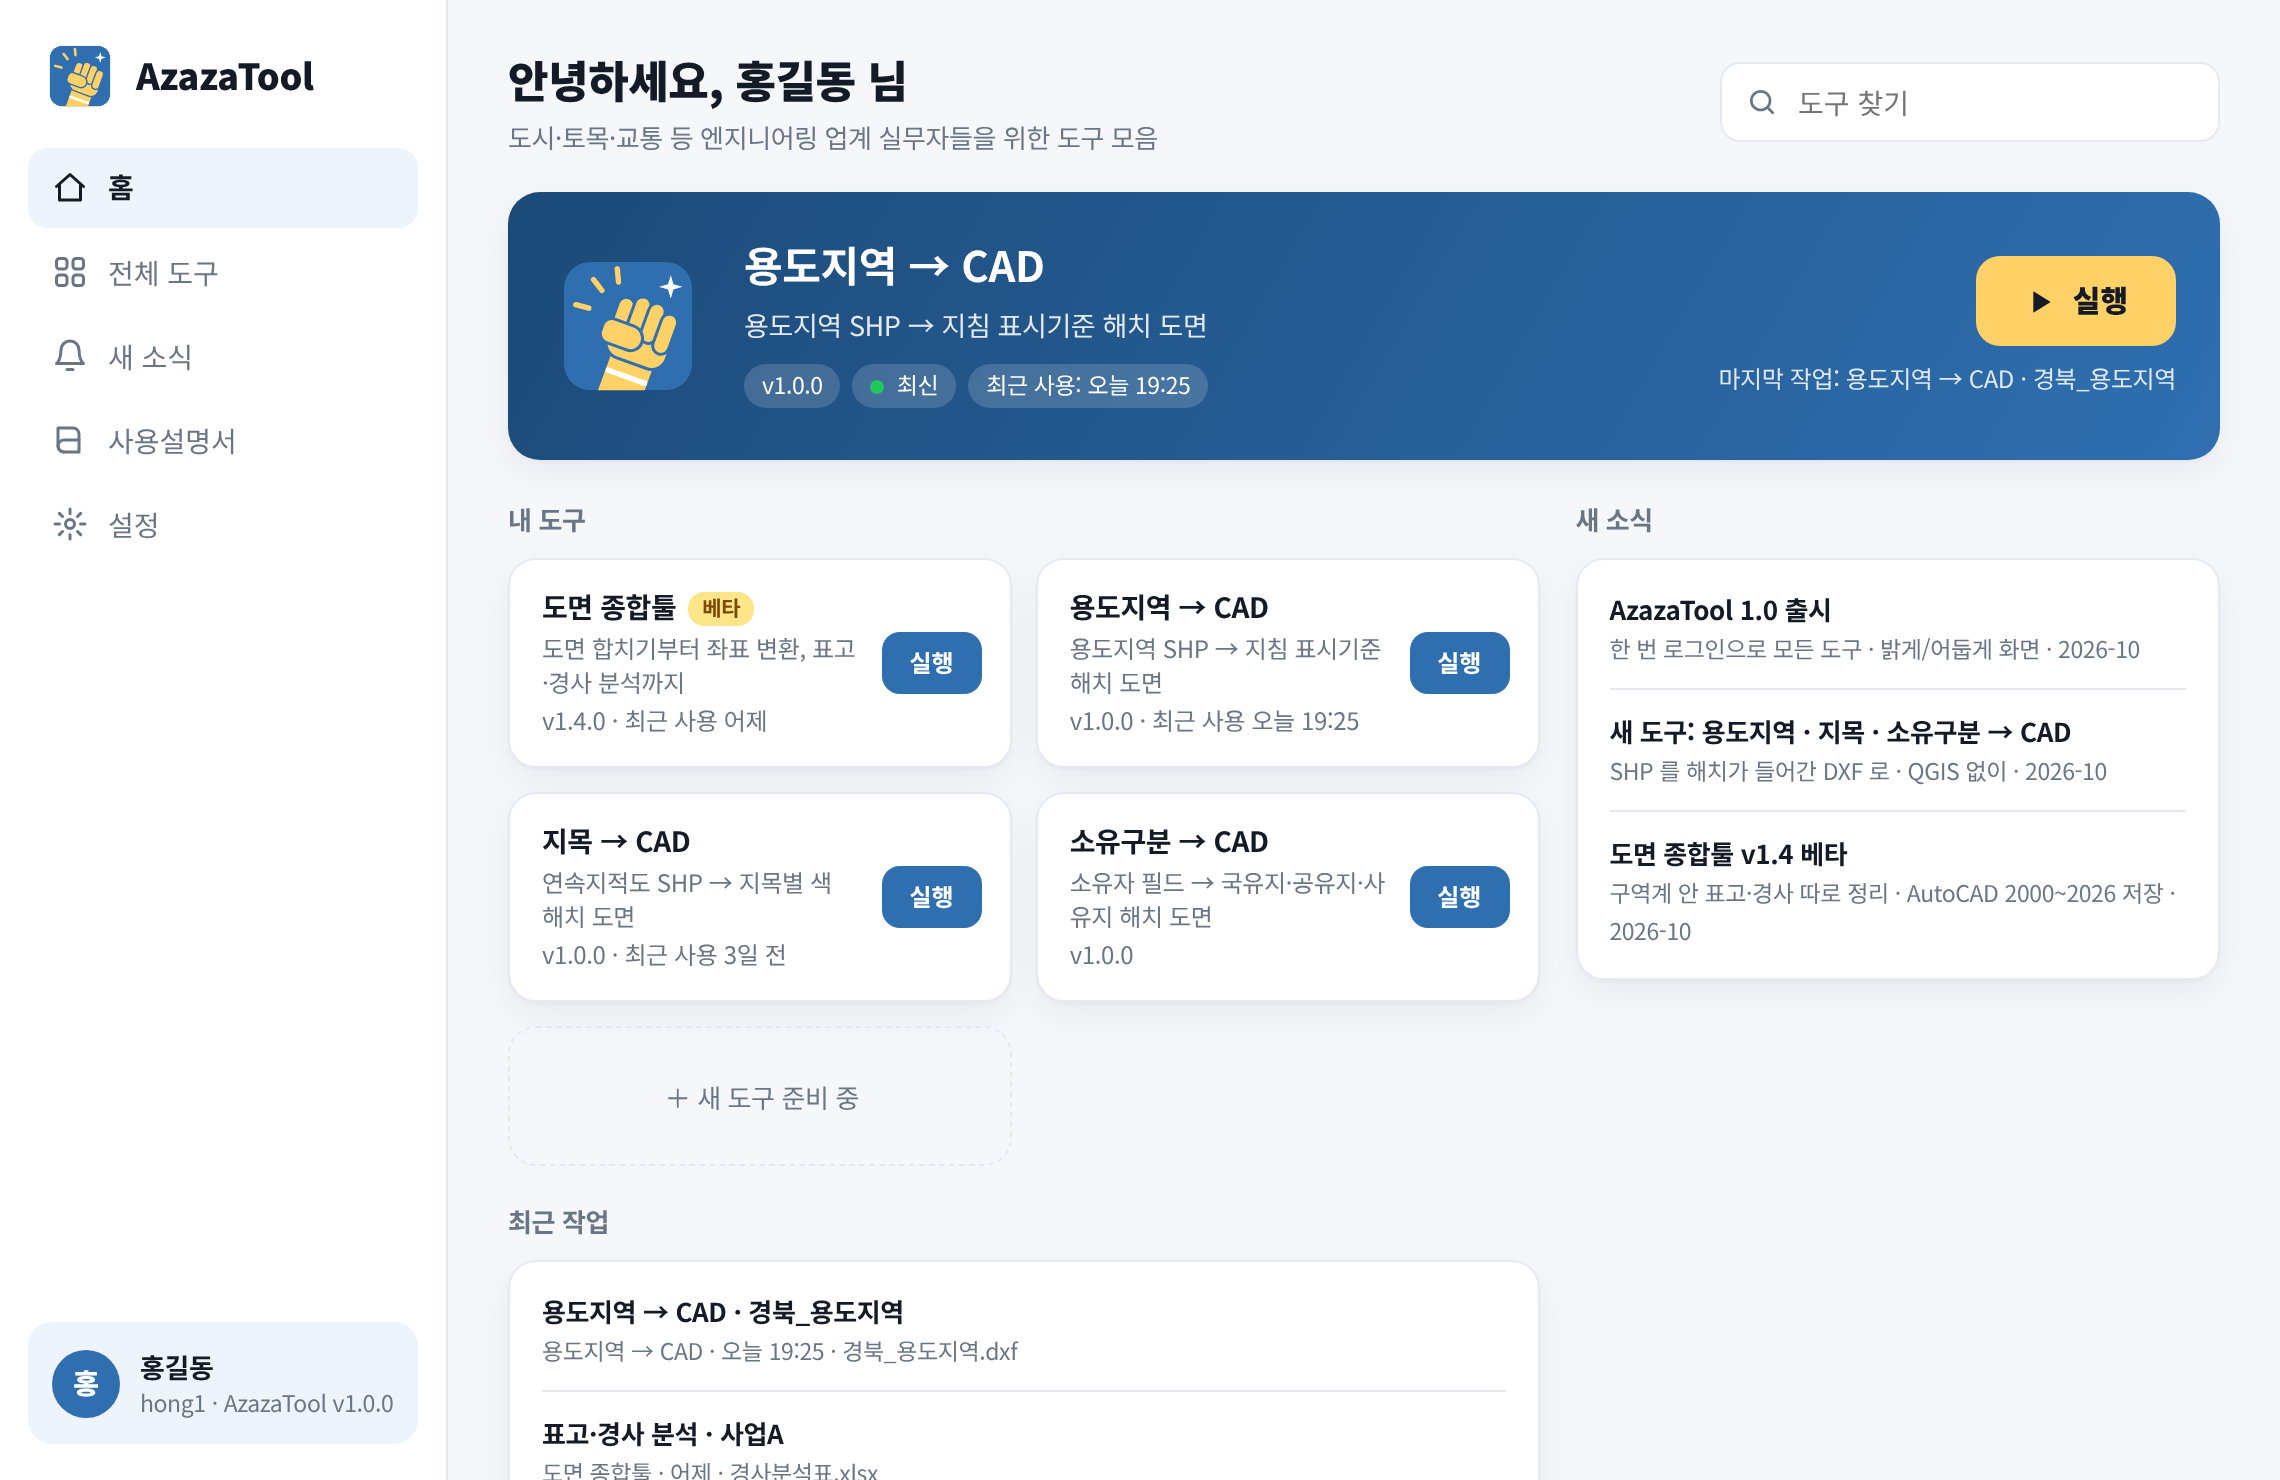
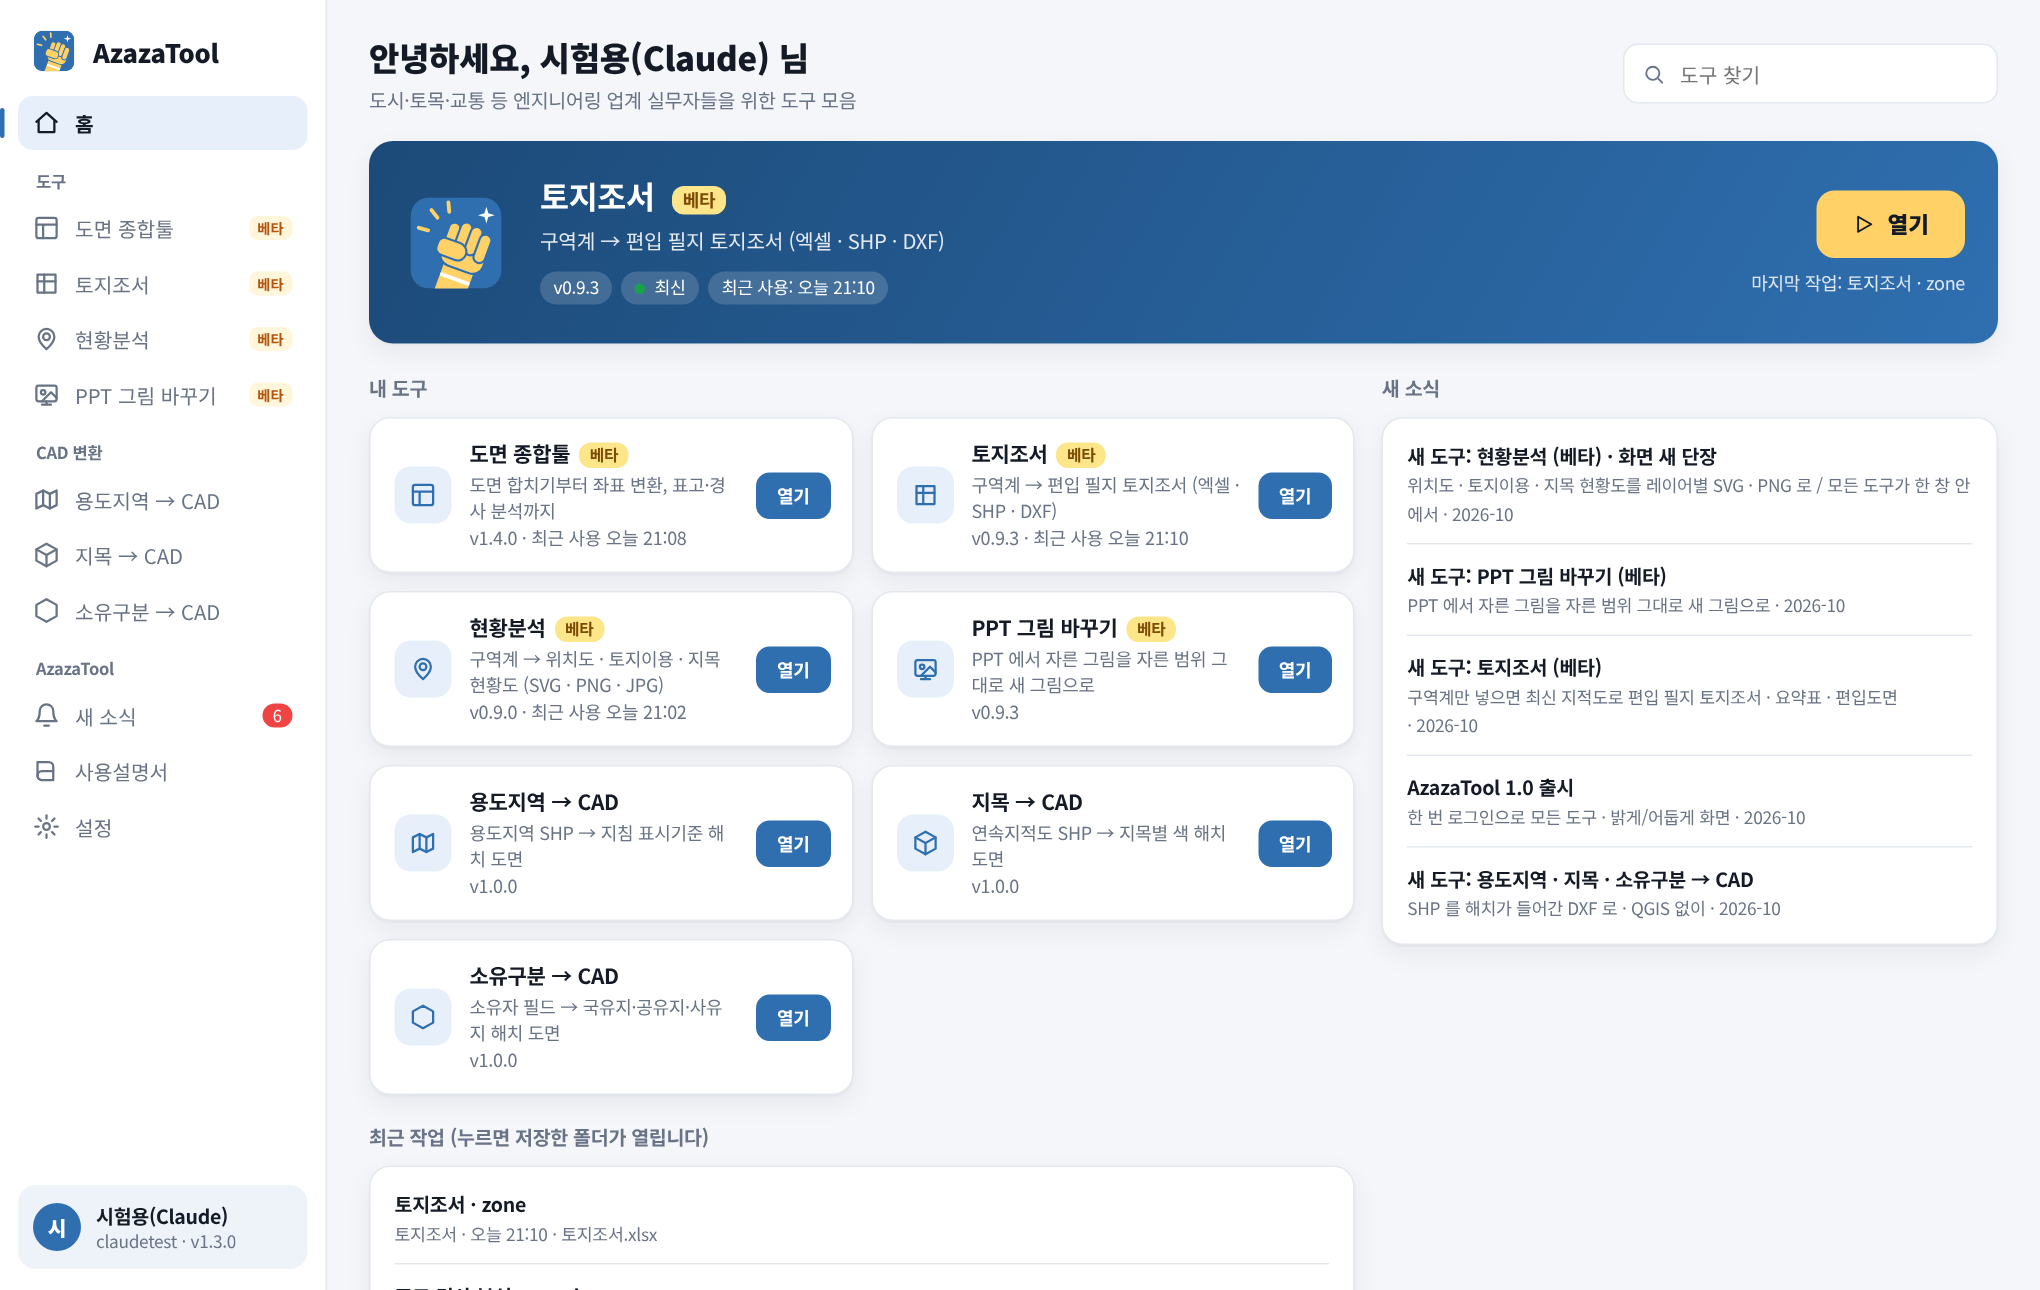
Add files via upload

diff --git a/docs/index.html b/docs/index.html
@@ -98,7 +98,7 @@
 
 <section id="tools"><div class="wrap">
   <h2>들어 있는 도구</h2>
-  <p class="sub">도구마다 따로 창이 열리고, 여러 도구를 같이 열어 쓸 수 있습니다.</p>
+  <p class="sub">모든 도구가 같은 화면 틀로 열립니다. 한 화면에 기능이 다 보이고, 파일은 끌어 놓으면 됩니다. 작업 중에 다른 도구로 가도 계속 돌아갑니다.</p>
   <div class="grid">
     <div class="card"><h3>도면 종합툴<span class="tag">베타</span></h3>
       <p>수치지형도 도엽(DXF·DWG)을 한 장으로 합치고, 좌표계를 바꾸고, 표고·경사를 분석합니다.</p>
@@ -110,6 +110,9 @@
     <div class="card"><h3>PPT 그림 바꾸기<span class="tag">베타</span></h3>
       <p>파워포인트에서 필요한 부분만 잘라 둔 그림을, 자른 범위 · 위치 · 효과는 그대로 두고 새로 내보낸 그림으로 바꿉니다.</p>
       <ul><li>열린 PPT 에 바로 (저장 · 다시 열기 없이)</li><li>대지 · 플롯 범위 · 해상도가 달라도 같은 부분을 자동으로 찾기</li><li>애니메이션 · 테두리 · 앞뒤 순서 그대로</li></ul></div>
+    <div class="card"><h3>현황분석<span class="tag">베타</span></h3>
+      <p>구역계만 고르면 위치도 · 토지이용 현황도 · 지목 현황도를 만듭니다. 일러스트레이터에서 바로 고칠 수 있게 묶음 · 레이어가 정리되어 나옵니다.</p>
+      <ul><li>용지 크기 자유 (A4~A0 · 직접 입력) · SVG · PNG · JPG</li><li>도로번호 표지 · 철도 겹선 · 주요 시설은 종류별로 묶음</li><li>지목별 면적표 엑셀</li></ul></div>
     <div class="card"><h3>용도지역 → CAD</h3>
       <p>용도지역 SHP(UQ111)를 「도시·군관리계획수립지침」 도면 표시기준(1/5,000)에 맞춘 해치 도면으로 바꿉니다.</p>
       <ul><li>21개 용도지역 바탕색 · 사선 · 원 무늬</li><li>제2종일반주거 '7층이하' 레이어 따로</li><li>여러 SHP 를 한 도면으로</li></ul></div>
@@ -133,7 +136,7 @@
   </div>
   <div class="shots" style="margin-top:34px">
     <figure><img src="zone.png" alt="용도지역 → CAD 화면"><figcaption>용도지역 → CAD — 저장하기 전에 레이어별 개수를 확인합니다</figcaption></figure>
-    <figure><img src="drawing.png" alt="도면 종합툴 화면"><figcaption>도면 종합툴 — 도엽 합치기 · 좌표 변환 · 표고·경사</figcaption></figure>
+    <figure><img src="status.png" alt="현황분석 화면"><figcaption>현황분석 — 구역계를 고르면 위치도를 바로 미리 봅니다</figcaption></figure>
   </div>
   <div class="note">자세한 사용법은 AzazaTool 첫 화면 왼쪽의 <b>[사용설명서]</b> 나 <a href="사용설명서.pdf">사용설명서 PDF</a> 를 보세요.</div>
 </div></section>
@@ -150,7 +153,8 @@
 
 <section id="news"><div class="wrap">
   <h2>새 소식</h2>
-  <div class="rel" id="rel"><div><b>AzazaTool 1.2</b><time>2026-10</time>
+  <div class="rel" id="rel"><div><b>AzazaTool 1.3</b><time>2026-10</time>
+    <ul><li>새 도구: 현황분석 (베타) — 위치도 · 토지이용 현황도 · 지목 현황도</li><li>모든 도구를 같은 새 화면 틀로 (예전 화면도 설정에서 고를 수 있음)</li><li>PPT 그림 바꾸기: 늦게 켜지던 문제 고침</li></ul></div><div><b>AzazaTool 1.2</b><time>2026-10</time>
     <ul><li>새 도구: PPT 그림 바꾸기 (베타) — 자른 그림을 자른 범위 그대로 새 그림으로</li></ul></div><div><b>AzazaTool 1.1.3</b><time>2026-10</time>
     <ul><li>토지조서: 고른 연도의 공시지가가 최종 값인지 표시 (공시일 · 7월 추가공시 반영 여부)</li></ul></div><div><b>AzazaTool 1.1.2</b><time>2026-10</time>
     <ul><li>토지조서: 지적도 좌표를 다운로드 SHP 와 같게 맞춤 (매일 자동 대조)</li><li>토지조서: 공시지가 기준일(1월 1일 / 7월 1일 추가공시) 표시 · 최근 공시지가가 빠지던 문제 고침</li><li>토지조서: '구분' 칸(산) 추가</li></ul></div><div><b>AzazaTool 1.1</b><time>2026-10</time>

diff --git a/README.md b/README.md
@@ -13,6 +13,7 @@
 | **도면 종합툴** (베타) | 수치지형도 도엽(DXF·DWG) 합치기 · 좌표 변환(GRS80↔Bessel·UTM-K·원점) · 표고·경사 분석표와 삽도 · 구역계 안 값 정리 |
 | **토지조서** (베타) | 구역계만 넣으면 최신 지적도로 편입 필지의 지목·공부상 면적·소유구분·개별공시지가 토지조서 · 요약표 · 편입도면 |
 | **PPT 그림 바꾸기** (베타) | 파워포인트에서 잘라 둔 그림을 자른 범위 · 위치 · 효과 그대로 새 그림으로 (열린 PPT 에 바로, 대지가 달라도 자동으로 찾기) |
+| **현황분석** (베타) | 구역계만 고르면 위치도 · 토지이용 현황도 · 지목 현황도를 SVG · PNG · JPG 로 (용지 크기 자유, 일러스트레이터에서 고치기 쉽게 묶음 정리) · 지목 면적표 엑셀 |
 | **용도지역 → CAD** | 용도지역 SHP(UQ111)를 「도시·군관리계획수립지침」 도면 표시기준(1/5,000)에 맞춘 해치 DXF 로 |
 | **지목 → CAD** | 연속지적도 SHP 를 28개 지목별 색 해치 DXF 로 |
 | **소유구분 → CAD** | 소유자 값을 국유지·공유지·사유지로 나눈 색 해치 DXF 로 |
